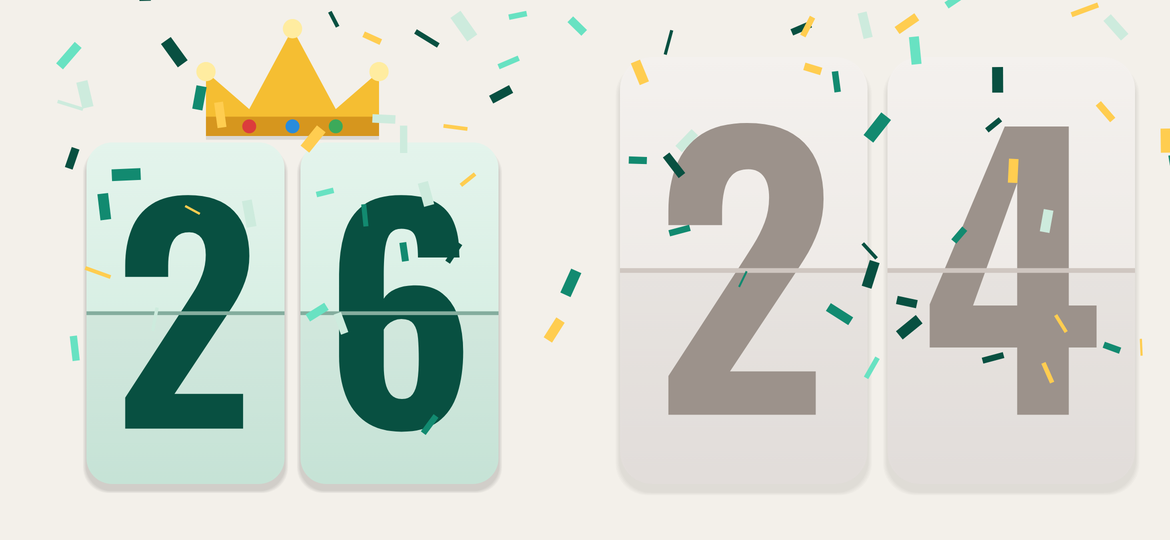
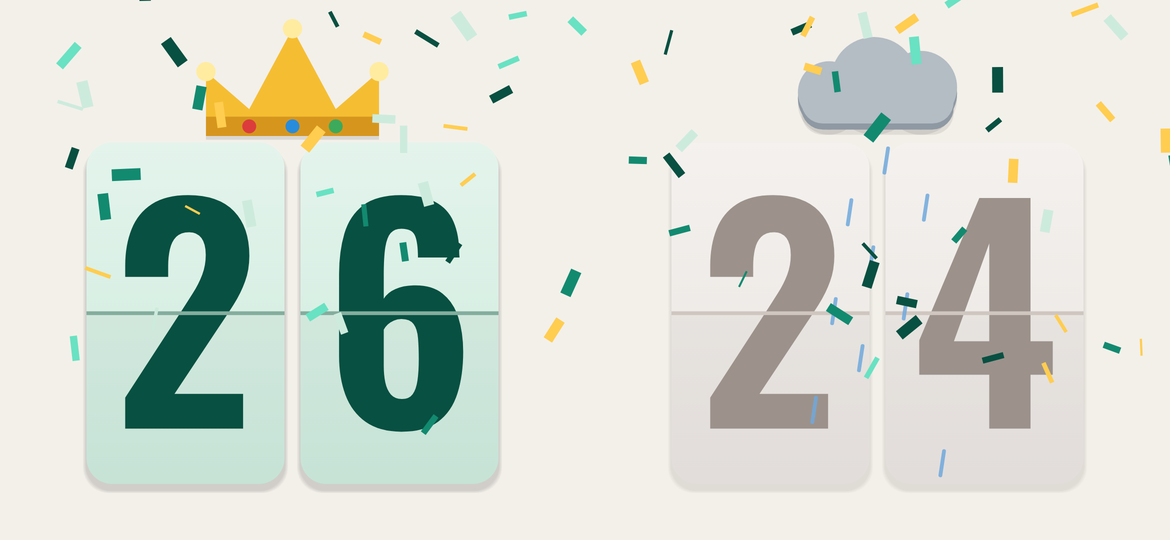
Give the losing side a rain cloud and keep both scores the same size
When a game ends both sides now shrink by the same amount, so the two
scores keep equal digit sizes. The loser gets a rain cloud that drifts
down above its cards with a four-second shower, as the counterpart to the
winner's crown.

Claude-Session: https://claude.ai/code/session_019kimoWTbzk4wqqgcAi2npU

Changed region(s): [[0.5231, 0.0593, 0.9846, 0.8], [0.8, 0.8296, 0.8308, 0.8889], [0.7077, 0.6519, 0.7385, 0.6815]]

diff --git a/shared/src/main/kotlin/io/github/ddeminii/badminton/shared/ui/FlipScore.kt b/shared/src/main/kotlin/io/github/ddeminii/badminton/shared/ui/FlipScore.kt
@@ -33,6 +33,7 @@ import androidx.compose.ui.geometry.Size
 import androidx.compose.ui.graphics.Brush
 import androidx.compose.ui.graphics.Color
 import androidx.compose.ui.graphics.Path
+import androidx.compose.ui.graphics.StrokeCap
 import androidx.compose.ui.graphics.TransformOrigin
 import androidx.compose.ui.graphics.drawscope.DrawScope
 import androidx.compose.ui.graphics.drawscope.clipRect
@@ -49,6 +50,7 @@ import androidx.core.content.res.ResourcesCompat
 import io.github.ddeminii.badminton.shared.R
 import io.github.ddeminii.badminton.shared.model.Side
 import kotlinx.coroutines.delay
+import kotlinx.coroutines.launch
 import kotlin.math.min
 import kotlin.math.sin
 
@@ -61,7 +63,8 @@ import kotlin.math.sin
  * @param cardAspect 카드 한 장의 가로/세로 비율
  * @param rest 절전 화면으로 넘어간 정도 (0 = 평소 색, 1 = 어두운 절전 색). 그릴 때마다 읽는다.
  * @param burning 매치포인트·듀스일 때 true. 카드가 불에 달궈진 듯 달아오른다 (불길은 [fireBackground]).
- * @param result 경기가 끝났을 때 이쪽이 이겼는지(왕관이 내려앉음) 졌는지(회색으로 흐려짐). 진행 중이면 null.
+ * @param result 경기가 끝났을 때 이쪽이 이겼는지(왕관이 내려앉음) 졌는지(회색으로 흐려지고 비구름이 뜸). 진행 중이면 null.
+ *   경기가 끝나면 양쪽 카드가 똑같이 줄어들어 위에 왕관·구름 자리를 내므로 두 점수의 글자 크기가 같다.
  */
 @Composable
 fun FlipScore(
@@ -79,20 +82,31 @@ fun FlipScore(
         animationSpec = tween(durationMillis = 600),
         label = "fade",
     )
-    // 왕관 자리를 내기 위해 카드가 줄어드는 정도, 그리고 왕관이 떨어져 통통 튀며 내려앉는 진행도
+    // 경기가 끝나면 양쪽 카드가 똑같이 줄어 위에 왕관·구름 자리를 낸다.
     val crownRoom = animateFloatAsState(
-        targetValue = if (result == GameResult.WON) 1f else 0f,
+        targetValue = if (result != null) 1f else 0f,
         animationSpec = tween(durationMillis = 350),
         label = "crownRoom",
     )
+    // 왕관은 떨어져 통통 튀며 내려앉고, 구름은 부드럽게 내려와 떠 있는다.
     val crownDrop = remember { Animatable(0f) }
+    // 구름에서 내리는 비 (몇 초 뒤 그친다)
+    val rain = remember { Animatable(0f) }
     LaunchedEffect(result) {
-        if (result == GameResult.WON) {
-            crownDrop.snapTo(0f)
-            delay(CROWN_DELAY_MS)
-            crownDrop.animateTo(1f, spring(dampingRatio = 0.4f, stiffness = Spring.StiffnessLow))
-        } else {
-            crownDrop.snapTo(0f)
+        crownDrop.snapTo(0f)
+        rain.snapTo(0f)
+        when (result) {
+            GameResult.WON -> {
+                delay(CROWN_DELAY_MS)
+                crownDrop.animateTo(1f, spring(dampingRatio = 0.4f, stiffness = Spring.StiffnessLow))
+            }
+            GameResult.LOST -> {
+                delay(CROWN_DELAY_MS)
+                launch { crownDrop.animateTo(1f, spring(dampingRatio = 0.85f, stiffness = Spring.StiffnessVeryLow)) }
+                delay(RAIN_DELAY_MS)
+                rain.animateTo(1f, tween(RAIN_MS, easing = LinearEasing))
+            }
+            null -> Unit
         }
     }
     val heat = animateFloatAsState(
@@ -173,25 +187,70 @@ fun FlipScore(
             }
         }
 
-        // 왕관. 카드 위로 떨어져 통통 튀며 내려앉는다.
+        // 이긴 쪽은 왕관, 진 쪽은 비구름이 카드 위에 자리 잡는다.
         Canvas(Modifier.size(rowWidth, cardHeight)) {
             val drop = crownDrop.value
-            if (drop <= 0f) return@Canvas
+            if (drop <= 0f || result == null) return@Canvas
             val cardsTop = size.height * CROWN_ROOM * crownRoom.value
-            val crownWidth = size.width * CROWN_WIDTH * (1f - CROWN_ROOM * crownRoom.value)
-            val fall = (1f - drop) * size.height * 0.9f
-            drawCrown(
-                centerX = size.width / 2f,
-                baseY = cardsTop - size.height * 0.015f - fall,
-                width = crownWidth,
-                alpha = (drop * 3f).coerceIn(0f, 1f),
-            )
+            val width = size.width * CROWN_WIDTH * (1f - CROWN_ROOM * crownRoom.value)
+            val alpha = (drop * 3f).coerceIn(0f, 1f)
+            if (result == GameResult.WON) {
+                val fall = (1f - drop) * size.height * 0.9f
+                drawCrown(size.width / 2f, cardsTop - size.height * 0.015f - fall, width, alpha)
+            } else {
+                val fall = (1f - drop) * size.height * 0.25f
+                val cloudBase = cardsTop - size.height * 0.03f - fall
+                drawRain(size.width / 2f, cloudBase, width, rain.value)
+                drawCloud(size.width / 2f, cloudBase, width, alpha)
+            }
         }
     }
 }
 
 /** 경기가 끝났을 때 이쪽의 결과 */
 enum class GameResult { WON, LOST }
+
+/** 비구름 하나를 [baseY]에 바닥을 맞춰 그린다. */
+private fun DrawScope.drawCloud(centerX: Float, baseY: Float, width: Float, alpha: Float) {
+    val height = width * 0.5f
+    fun puffs(color: Color, dy: Float, a: Float) {
+        drawCircle(color, radius = height * 0.50f, center = Offset(centerX - width * 0.02f, baseY - height * 0.50f + dy), alpha = a)
+        drawCircle(color, radius = height * 0.36f, center = Offset(centerX - width * 0.28f, baseY - height * 0.36f + dy), alpha = a)
+        drawCircle(color, radius = height * 0.42f, center = Offset(centerX + width * 0.25f, baseY - height * 0.42f + dy), alpha = a)
+        drawRoundRect(
+            color = color,
+            topLeft = Offset(centerX - width * 0.44f, baseY - height * 0.5f + dy),
+            size = Size(width * 0.88f, height * 0.5f),
+            cornerRadius = CornerRadius(height * 0.25f),
+            alpha = a,
+        )
+    }
+    puffs(Color.Black, height * 0.06f, 0.08f * alpha)
+    puffs(ScoreColors.CloudShade, 0f, alpha)
+    puffs(ScoreColors.Cloud, -height * 0.07f, alpha)
+}
+
+/** 구름 아래로 떨어지는 빗줄기. [progress]가 1이 되면 그친다. */
+private fun DrawScope.drawRain(centerX: Float, cloudBase: Float, width: Float, progress: Float) {
+    if (progress <= 0f || progress >= 1f) return
+    val seconds = progress * RAIN_MS / 1000f
+    val fade = min(1f, progress / 0.08f) * min(1f, (1f - progress) / 0.2f)
+    val fallHeight = size.height - cloudBase
+    val length = width * 0.14f
+    for (i in 0 until RAIN_DROPS) {
+        val x = centerX + ((i + 0.5f) / RAIN_DROPS - 0.5f) * width * 0.8f + sin(i * 7.3f) * width * 0.03f
+        val phase = (i * 0.618f) % 1f
+        val y = cloudBase + ((phase + seconds * (1.1f + (i % 3) * 0.15f)) % 1f) * fallHeight
+        drawLine(
+            color = ScoreColors.Rain,
+            start = Offset(x, y),
+            end = Offset(x - length * 0.15f, y + length),
+            strokeWidth = width * 0.022f,
+            cap = StrokeCap.Round,
+            alpha = 0.85f * fade,
+        )
+    }
+}
 
 /** 왕관 하나를 [baseY]에 바닥을 맞춰 그린다. */
 private fun DrawScope.drawCrown(centerX: Float, baseY: Float, width: Float, alpha: Float) {
@@ -399,6 +458,11 @@ private const val BURNING_ANCHOR_Y = 0.15f
 private const val CROWN_ROOM = 0.2f
 private const val CROWN_WIDTH = 0.42f
 private const val CROWN_DELAY_MS = 250L
+
+/** 진 쪽 구름에서 비가 내리는 시간, 구름이 뜬 뒤 비가 시작되기까지의 틈, 빗줄기 수 */
+private const val RAIN_MS = 4_000
+private const val RAIN_DELAY_MS = 450L
+private const val RAIN_DROPS = 9
 
 /** 달아오른 카드가 밝아졌다 어두워지는 빠르기 (라디안/초) */
 private const val HEAT_PULSE_SPEED = 3f

diff --git a/shared/src/main/kotlin/io/github/ddeminii/badminton/shared/ui/ScoreColors.kt b/shared/src/main/kotlin/io/github/ddeminii/badminton/shared/ui/ScoreColors.kt
@@ -95,6 +95,11 @@ object ScoreColors {
     val CrownPearl = Color(0xFFFFECA0)
     val CrownGems = listOf(Color(0xFFDC3C3C), Color(0xFF288CDC), Color(0xFF3CAA5A))
 
+    /** 진 쪽 위에 뜨는 비구름과 빗줄기 */
+    val Cloud = Color(0xFFB4BCC4)
+    val CloudShade = Color(0xFF8F99A3)
+    val Rain = Color(0xFF6FA8DC)
+
     /** 이긴 쪽 색의 꽃가루 */
     val ConfettiMe = listOf(Color(0xFF085041), Color(0xFF128A70), Color(0xFF68E2C2), Color(0xFFFFCD50), Color(0xFFCDEBDD))
     val ConfettiOpponent = listOf(Color(0xFF712B13), Color(0xFFB04A22), Color(0xFFFF966C), Color(0xFFFFCD50), Color(0xFFF8D9C8))
